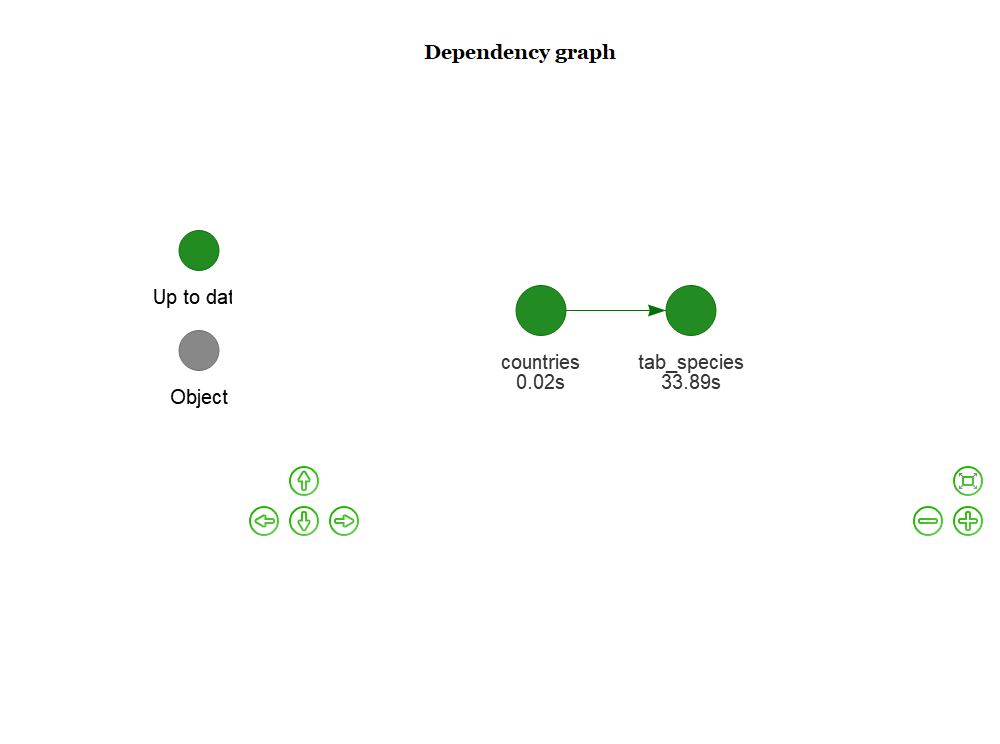
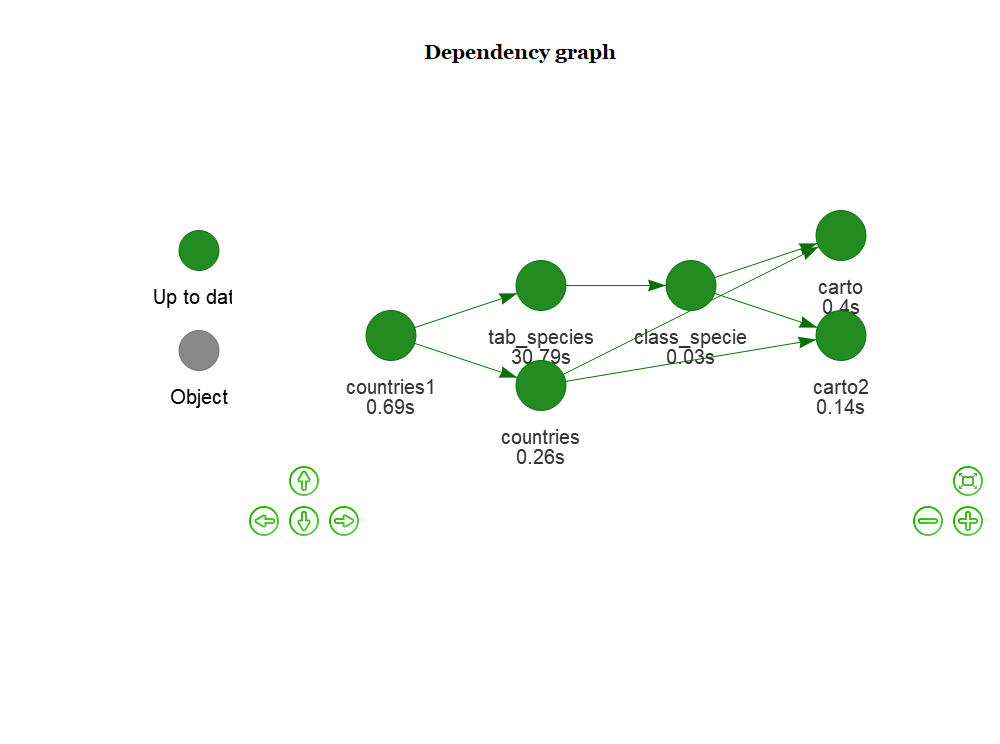
une carte et des fautes en moins

diff --git a/presentation.html b/presentation.html
@@ -28,7 +28,7 @@ class: right, middle, title-slide
 
 * Utiliser divers éléments abordés pendant la semaine:  
   + tidyverse et Rmarkdown  
-  + sf pour les données spatiale
+  + sf pour les données spatiales
   + drake  
   + l'importation de données internet (API)   
   + **git et github**
@@ -43,8 +43,8 @@ class: right, middle, title-slide
 
 ---
 ## une autre présentation possible
-<div id="htmlwidget-32334f9fb10eed7e4b08" style="width:504px;height:504px;" class="visNetwork html-widget"></div>
-<script type="application/json" data-for="htmlwidget-32334f9fb10eed7e4b08">{"x":{"nodes":{"id":["countries1","tab_species","countries","class_specie","carto"],"imported":[false,false,false,false,false],"label":["countries1\n0.69s","tab_species\n30.79s","countries\n0.26s","class_specie\n0.03s","carto\n0.4s"],"status":["up to date","up to date","up to date","up to date","up to date"],"type":["object","object","object","object","object"],"font.size":[20,20,20,20,20],"color":["#228B22","#228B22","#228B22","#228B22","#228B22"],"shape":["dot","dot","dot","dot","dot"],"level":[1,2,2,3,4],"x":[-1,-0.333333333333333,-0.333333333333333,0.333333333333333,1],"y":[2.22044604925031e-016,-1,1,2.22044604925031e-016,2.22044604925031e-016]},"edges":{"from":["countries1","countries1","tab_species","class_specie","countries"],"to":["tab_species","countries","class_specie","carto","carto"],"arrows":["to","to","to","to","to"]},"nodesToDataframe":true,"edgesToDataframe":true,"options":{"width":"100%","height":"100%","nodes":{"shape":"dot","physics":false},"manipulation":{"enabled":false},"interaction":{"navigationButtons":true},"layout":{"hierarchical":{"enabled":true,"direction":"LR"}}},"groups":null,"width":null,"height":null,"idselection":{"enabled":false,"style":"width: 150px; height: 26px","useLabels":true,"main":"Select by id"},"byselection":{"enabled":false,"style":"width: 150px; height: 26px","multiple":false,"hideColor":"rgba(200,200,200,0.5)"},"main":{"text":"Dependency graph","style":"font-family:Georgia, Times New Roman, Times, serif;font-weight:bold;font-size:20px;text-align:center;"},"submain":null,"footer":null,"background":"rgba(0, 0, 0, 0)","highlight":{"enabled":false,"hoverNearest":false,"degree":1,"algorithm":"all","hideColor":"rgba(200,200,200,0.5)","labelOnly":true},"collapse":{"enabled":true,"fit":false,"resetHighlight":true,"clusterOptions":null,"keepCoord":true,"labelSuffix":"(cluster)"},"legend":{"width":0.2,"useGroups":false,"position":"left","ncol":1,"stepX":100,"stepY":100,"zoom":true,"nodes":{"label":["Up to date","Object"],"color":["#228B22","#888888"],"shape":["dot","dot"],"font.color":["black","black"],"font.size":[20,20],"id":[1,7]},"nodesToDataframe":true},"tooltipStay":300,"tooltipStyle":"position: fixed;visibility:hidden;padding: 5px;white-space: nowrap;font-family: verdana;font-size:14px;font-color:#000000;background-color: #f5f4ed;-moz-border-radius: 3px;-webkit-border-radius: 3px;border-radius: 3px;border: 1px solid #808074;box-shadow: 3px 3px 10px rgba(0, 0, 0, 0.2);"},"evals":[],"jsHooks":[]}</script>
+<div id="htmlwidget-f00d85c599bd546fa5d9" style="width:504px;height:504px;" class="visNetwork html-widget"></div>
+<script type="application/json" data-for="htmlwidget-f00d85c599bd546fa5d9">{"x":{"nodes":{"id":["countries1","tab_species","countries","class_specie","carto","carto2"],"imported":[false,false,false,false,false,false],"label":["countries1\n0.69s","tab_species\n30.79s","countries\n0.26s","class_specie\n0.03s","carto\n0.4s","carto2\n0.14s"],"status":["up to date","up to date","up to date","up to date","up to date","up to date"],"type":["object","object","object","object","object","object"],"font.size":[20,20,20,20,20,20],"color":["#228B22","#228B22","#228B22","#228B22","#228B22","#228B22"],"shape":["dot","dot","dot","dot","dot","dot"],"level":[1,2,2,3,4,4],"x":[-1,-0.333333333333333,-0.333333333333333,0.333333333333333,1,1],"y":[2.22044604925031e-016,-1,1,2.22044604925031e-016,-1,1]},"edges":{"from":["countries1","countries1","tab_species","class_specie","class_specie","countries","countries"],"to":["tab_species","countries","class_specie","carto","carto2","carto","carto2"],"arrows":["to","to","to","to","to","to","to"]},"nodesToDataframe":true,"edgesToDataframe":true,"options":{"width":"100%","height":"100%","nodes":{"shape":"dot","physics":false},"manipulation":{"enabled":false},"interaction":{"navigationButtons":true},"layout":{"hierarchical":{"enabled":true,"direction":"LR"}}},"groups":null,"width":null,"height":null,"idselection":{"enabled":false,"style":"width: 150px; height: 26px","useLabels":true,"main":"Select by id"},"byselection":{"enabled":false,"style":"width: 150px; height: 26px","multiple":false,"hideColor":"rgba(200,200,200,0.5)"},"main":{"text":"Dependency graph","style":"font-family:Georgia, Times New Roman, Times, serif;font-weight:bold;font-size:20px;text-align:center;"},"submain":null,"footer":null,"background":"rgba(0, 0, 0, 0)","highlight":{"enabled":false,"hoverNearest":false,"degree":1,"algorithm":"all","hideColor":"rgba(200,200,200,0.5)","labelOnly":true},"collapse":{"enabled":true,"fit":false,"resetHighlight":true,"clusterOptions":null,"keepCoord":true,"labelSuffix":"(cluster)"},"legend":{"width":0.2,"useGroups":false,"position":"left","ncol":1,"stepX":100,"stepY":100,"zoom":true,"nodes":{"label":["Up to date","Object"],"color":["#228B22","#888888"],"shape":["dot","dot"],"font.color":["black","black"],"font.size":[20,20],"id":[1,7]},"nodesToDataframe":true},"tooltipStay":300,"tooltipStyle":"position: fixed;visibility:hidden;padding: 5px;white-space: nowrap;font-family: verdana;font-size:14px;font-color:#000000;background-color: #f5f4ed;-moz-border-radius: 3px;-webkit-border-radius: 3px;border-radius: 3px;border: 1px solid #808074;box-shadow: 3px 3px 10px rgba(0, 0, 0, 0.2);"},"evals":[],"jsHooks":[]}</script>
 
 ---
 ## la première carte 
@@ -55,16 +55,24 @@ class: right, middle, title-slide
 ```
 
 &lt;div class="figure" style="text-align: center"&gt;
-&lt;img src="presentation_files/figure-html/unnamed-chunk-2-1.png" alt="Fig. 1" width="50%" /&gt;
-&lt;p class="caption"&gt;Fig. 1&lt;/p&gt;
+&lt;img src="presentation_files/figure-html/unnamed-chunk-2-1.png" alt="Fig. 3" width="50%" /&gt;
+&lt;p class="caption"&gt;Fig. 3&lt;/p&gt;
+&lt;/div&gt;
+
+---
+## la deuxième carte 
+
+&lt;div class="figure" style="text-align: center"&gt;
+&lt;img src="presentation_files/figure-html/unnamed-chunk-3-1.png" alt="Fig. 4" width="50%" /&gt;
+&lt;p class="caption"&gt;Fig. 4&lt;/p&gt;
 &lt;/div&gt;
 
 ---
 ## quelques retours "d’expérience"
-* git ne commut pas les dossiers vides.  
+* git ne "commutte" pas les dossiers vides.  
 * le plan de drake est un data.frame, donc utiliser **=** pour objets=fonctions().  
-* sourcer charge juste les fonctions (ne les applique pas).
-* les problèmes de chemins entre drake et Rmardown nous ont contraint a mettre le .Rmd à la racine.
+* "sourcer" charge juste les fonctions (ne les applique pas).
+* les problèmes de chemins entre drake et Rmardown nous ont contraint à mettre le .Rmd à la racine.
 
 ---
 
